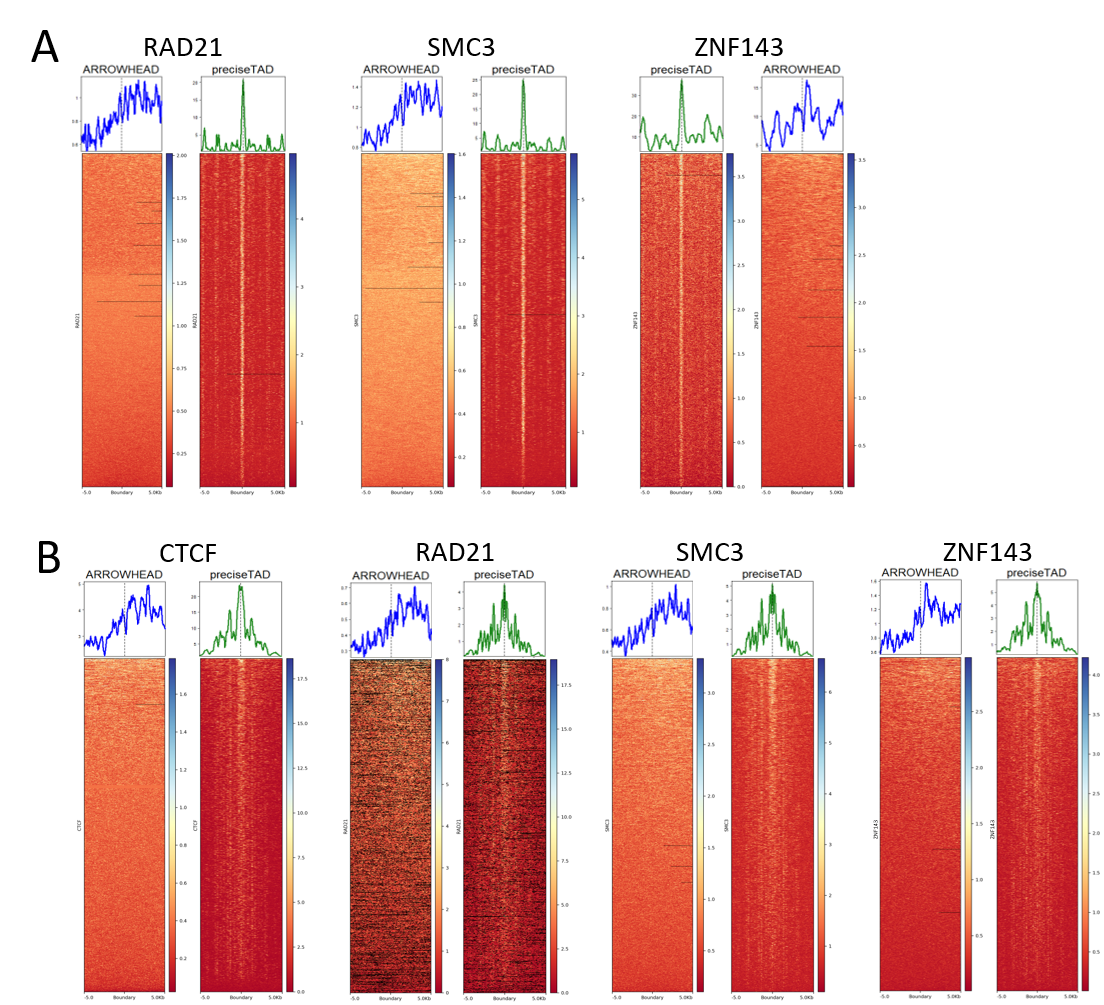
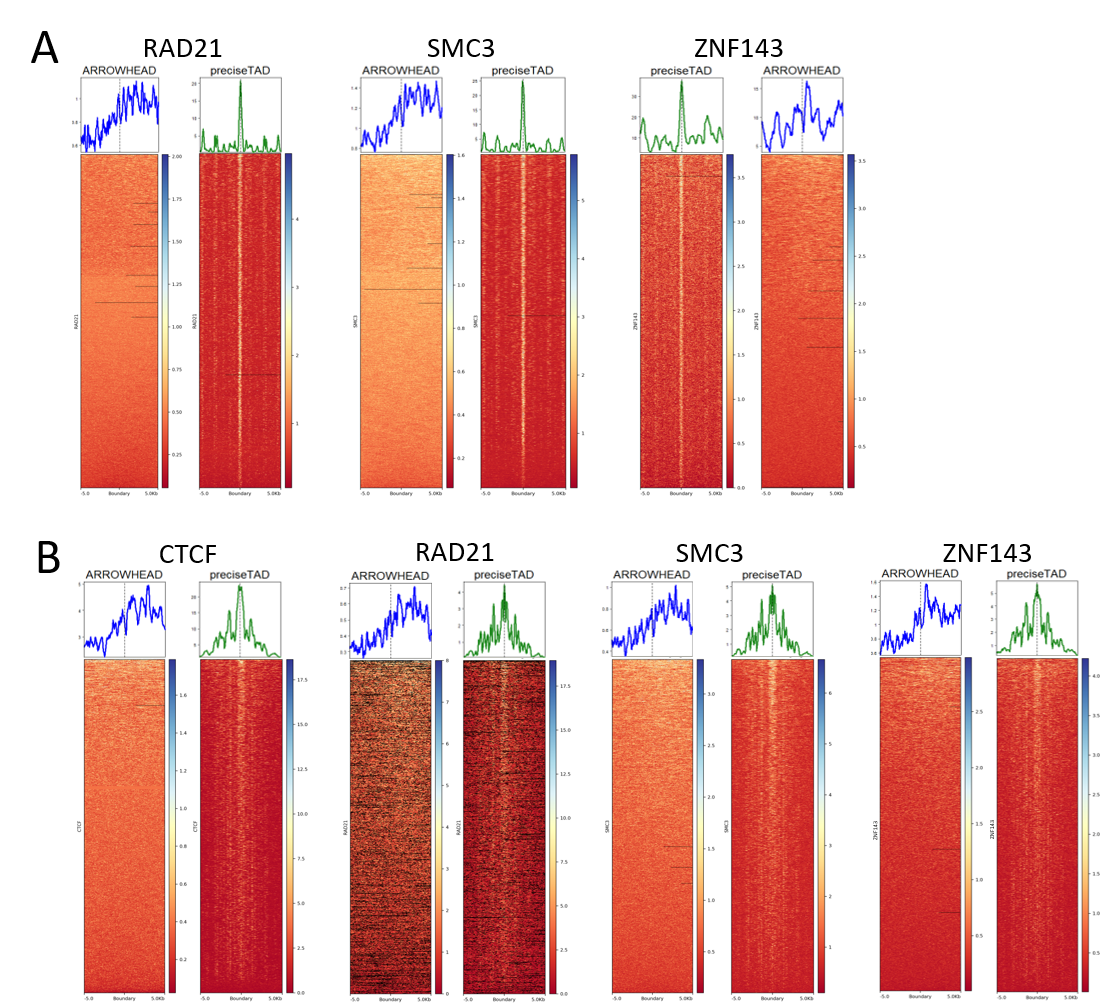
made background of figures white

diff --git a/ToDo.md b/ToDo.md
@@ -16,7 +16,7 @@ Share binary files by e-mail. Figures - pasted in PPT, tables - as CSV or Excel 
    + Where are Arrowhead- and Peakachu-specific data? It should correspond exactly to "*preciseTAD* was able to predict a total of 7,846 TAD and 15,838 chromatin loop boundaries on GM12878, as well as 8,883 TAD and 11,016 chromatin loop boundaries on K562"
    - Need `summary()` of PTBR lengths for Arrowhead GM12878 and K562 and Peakachu GM12878 and K562 PRBRs
 
-- Make Background of all figures white
++ Make Background of all figures white
 
 ## For publication
 
